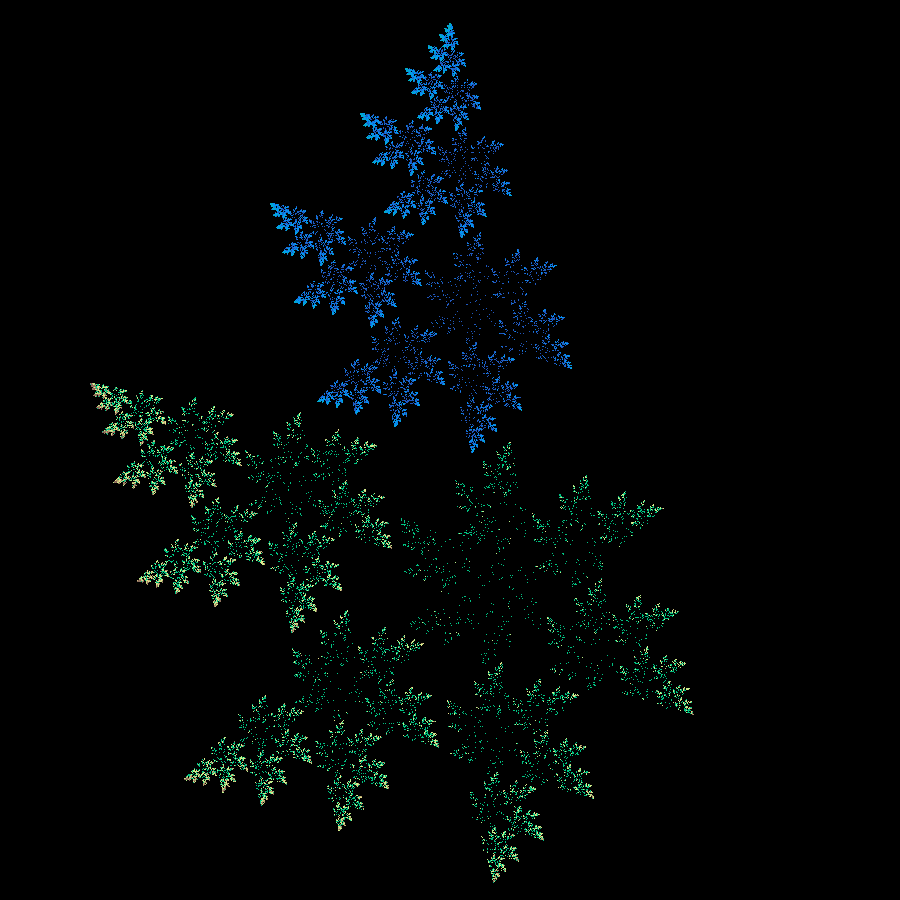
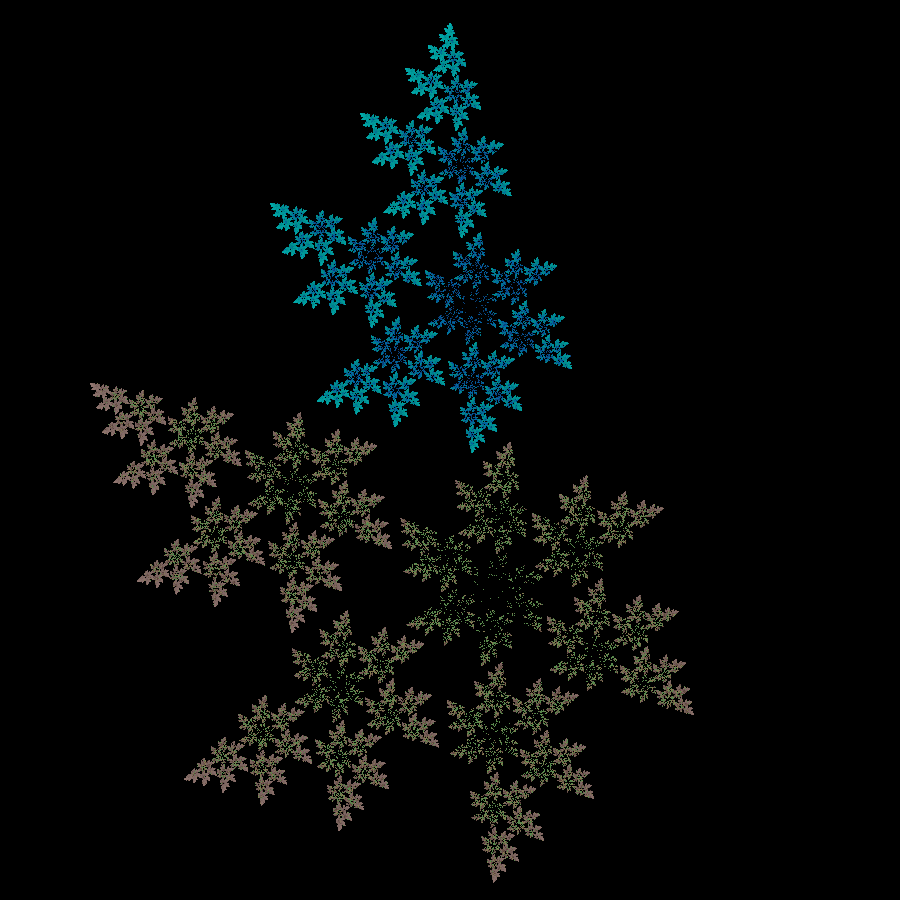
multiplying intensity after colormapping

Changed region(s): [[0.0933, 0.0311, 0.7778, 0.9956]]

diff --git a/ifs_chaos_game.py b/ifs_chaos_game.py
@@ -134,9 +134,10 @@ def gamma_correction(gamma, point_colors, point_frequencies):
     alpha = np.log(point_frequencies) / np.log(point_frequencies_max)
     # alpha[alpha < 0] = 0
     # alpha += alpha.min()
-    final_pixel_colors = point_colors * (alpha ** (1 / gamma))  # [:, :, None]
     cmap = matplotlib.cm.get_cmap('terrain')
-    final_pixel_colors_mapped = cmap(final_pixel_colors)
+    final_pixel_colors_mapped = cmap(point_colors)
+    intensities = (alpha ** (1 / gamma))[:, :, None]
+    final_pixel_colors_mapped[:, :, 0:3] *= intensities
     return final_pixel_colors_mapped
 
 
@@ -220,4 +221,4 @@ def process_and_save(density_alpha, epsilon, gamma, max_kernel_radius, point_col
 
 
 # main(n=500, visualize_algorithm=True)
-main(n=50000)
+main(n=500000)
